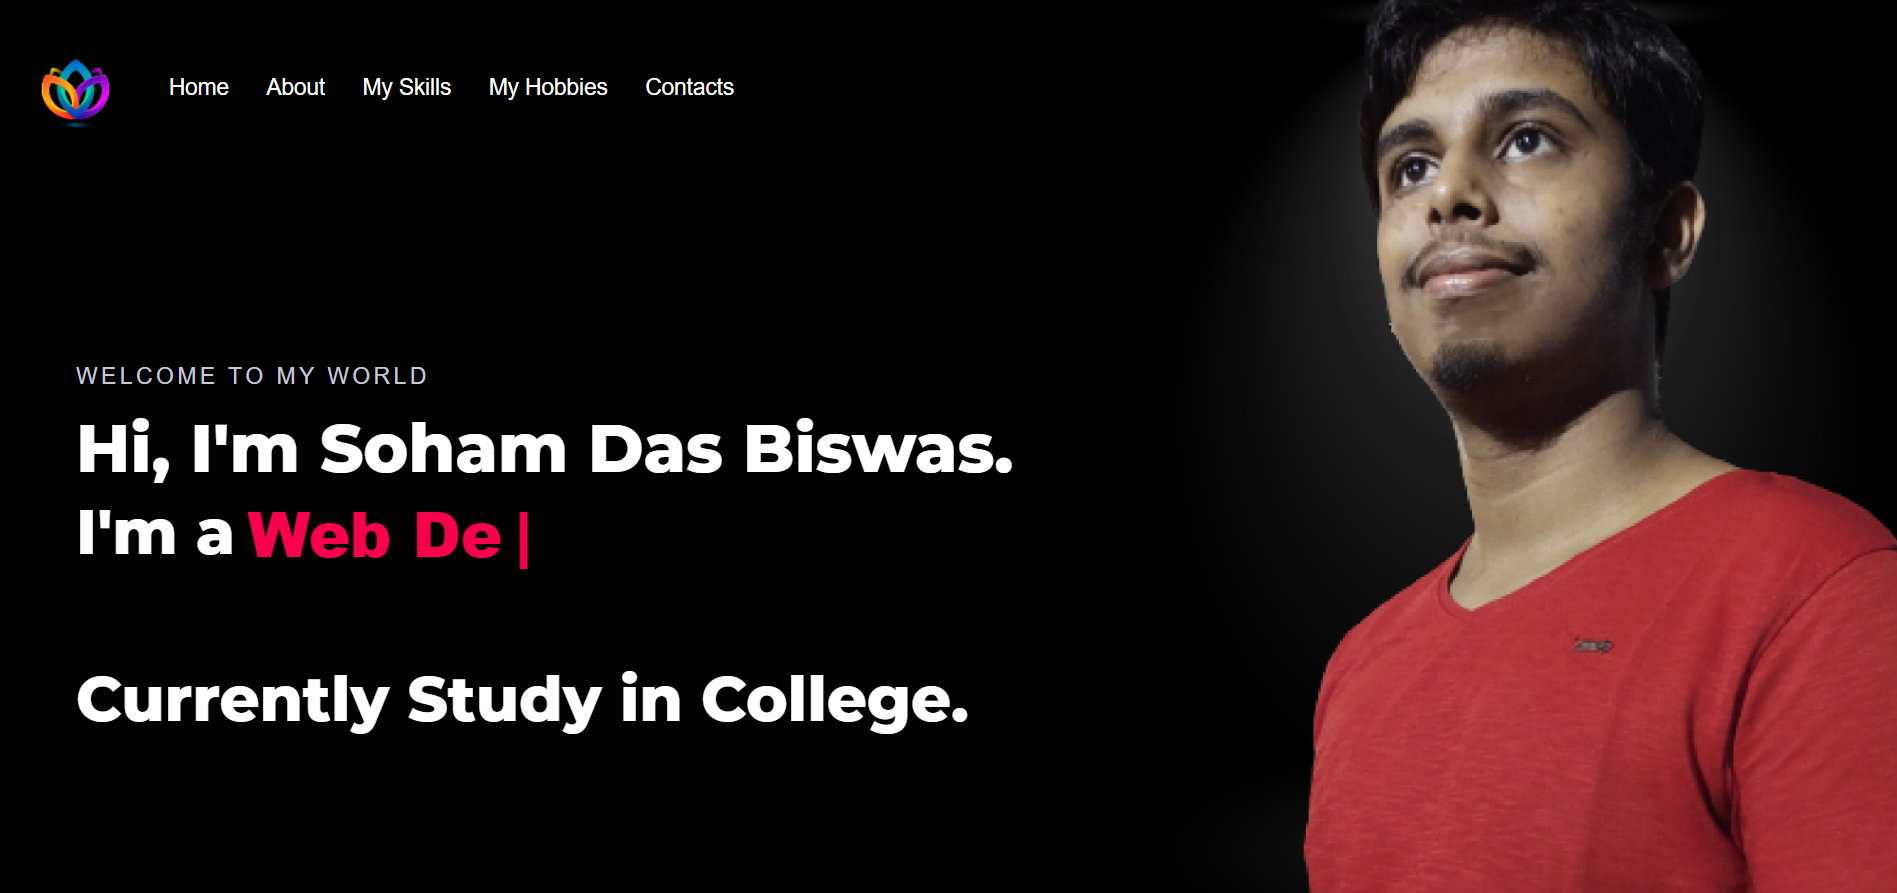
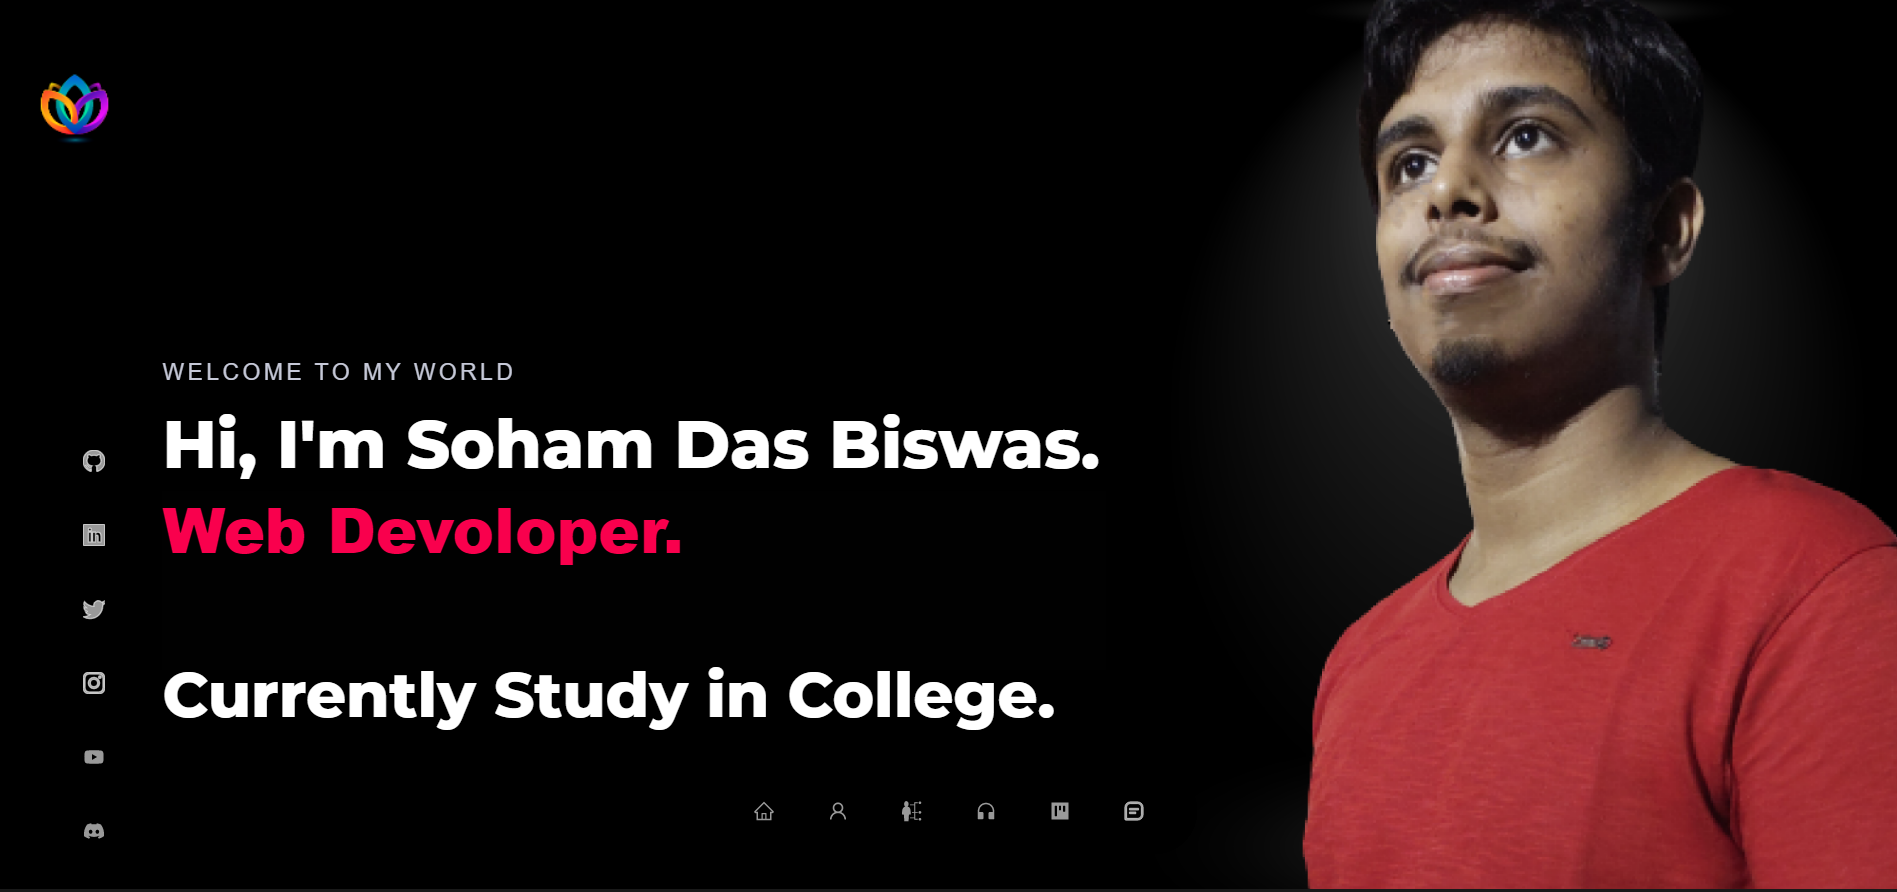
My Portfolio Website

diff --git a/src/components/Home/Home.js b/src/components/Home/Home.js
@@ -39,22 +39,24 @@ function Home() {
             <div classname="home__meta">
               <h1 className="home__text pz__10">WELCOME TO MY WORLD</h1>
               <h2 className="home__text pz__10">Hi, I'm Soham Das Biswas.</h2>
-              <h3 className="home__text pz__10">
-              I'm a
+              {/* <h3 className="home__text pz__10">
+                I'm a */}
                 <span className="typing-box">
-                
-                  <Typewriter
+                <h3 className="home__text pz__10">
+                 
+                  <Typewriter 
                    options={{
                     skipAddStyles: true,
                     // wrapperClassName: "typing-box",
-                    strings: ['Python Devoloper.', 'JavaScript Devoloper.', 'Web Devoloper.', 'Graphics Designer.', 'Video Editor.', 'Arduino Programmer.'],
+                    strings: ['Python Developer.', 'JavaScript Developer.', 'Web Developer.', 'Graphics Designer.', 'Video Editor.', 'Arduino Programmer.'],
                     autoStart: true,
+                    cursor: null,
                     typeSpeed: 150,
                     backSpeed: 150,
                     loop: true
                   }}
-                /></span>
-              </h3>
+                /></h3></span>
+              {/* </h3> */}
 
               <h4 className="home__text pz__10">Currently Study in College.</h4>
             </div>

diff --git a/src/components/Home/Home.css b/src/components/Home/Home.css
@@ -6,6 +6,9 @@
     background-size: cover;
     padding-top: 30px;
 }
+.scbar{
+    border-radius: 50px;
+}
 li.nav__items{
     font-size: 18px;
     padding-bottom: 15px;
@@ -41,12 +44,15 @@ h3.home__text{
 span{
     font-size: 50px;
     font-weight: 800;
-    padding: 0px 10px;
-    background-color: #010101;
-    color: #F9004D;
-    width: 70%;
-    display: inline;
+    color: #f9004d;
     display: flex;
+}
+.Typewriter_cursor{
+    position: relative;
+    color: #f9004d;
+}
+h3.home__text{
+    display: block;
 }
 
 /* .typed-fade-out{
